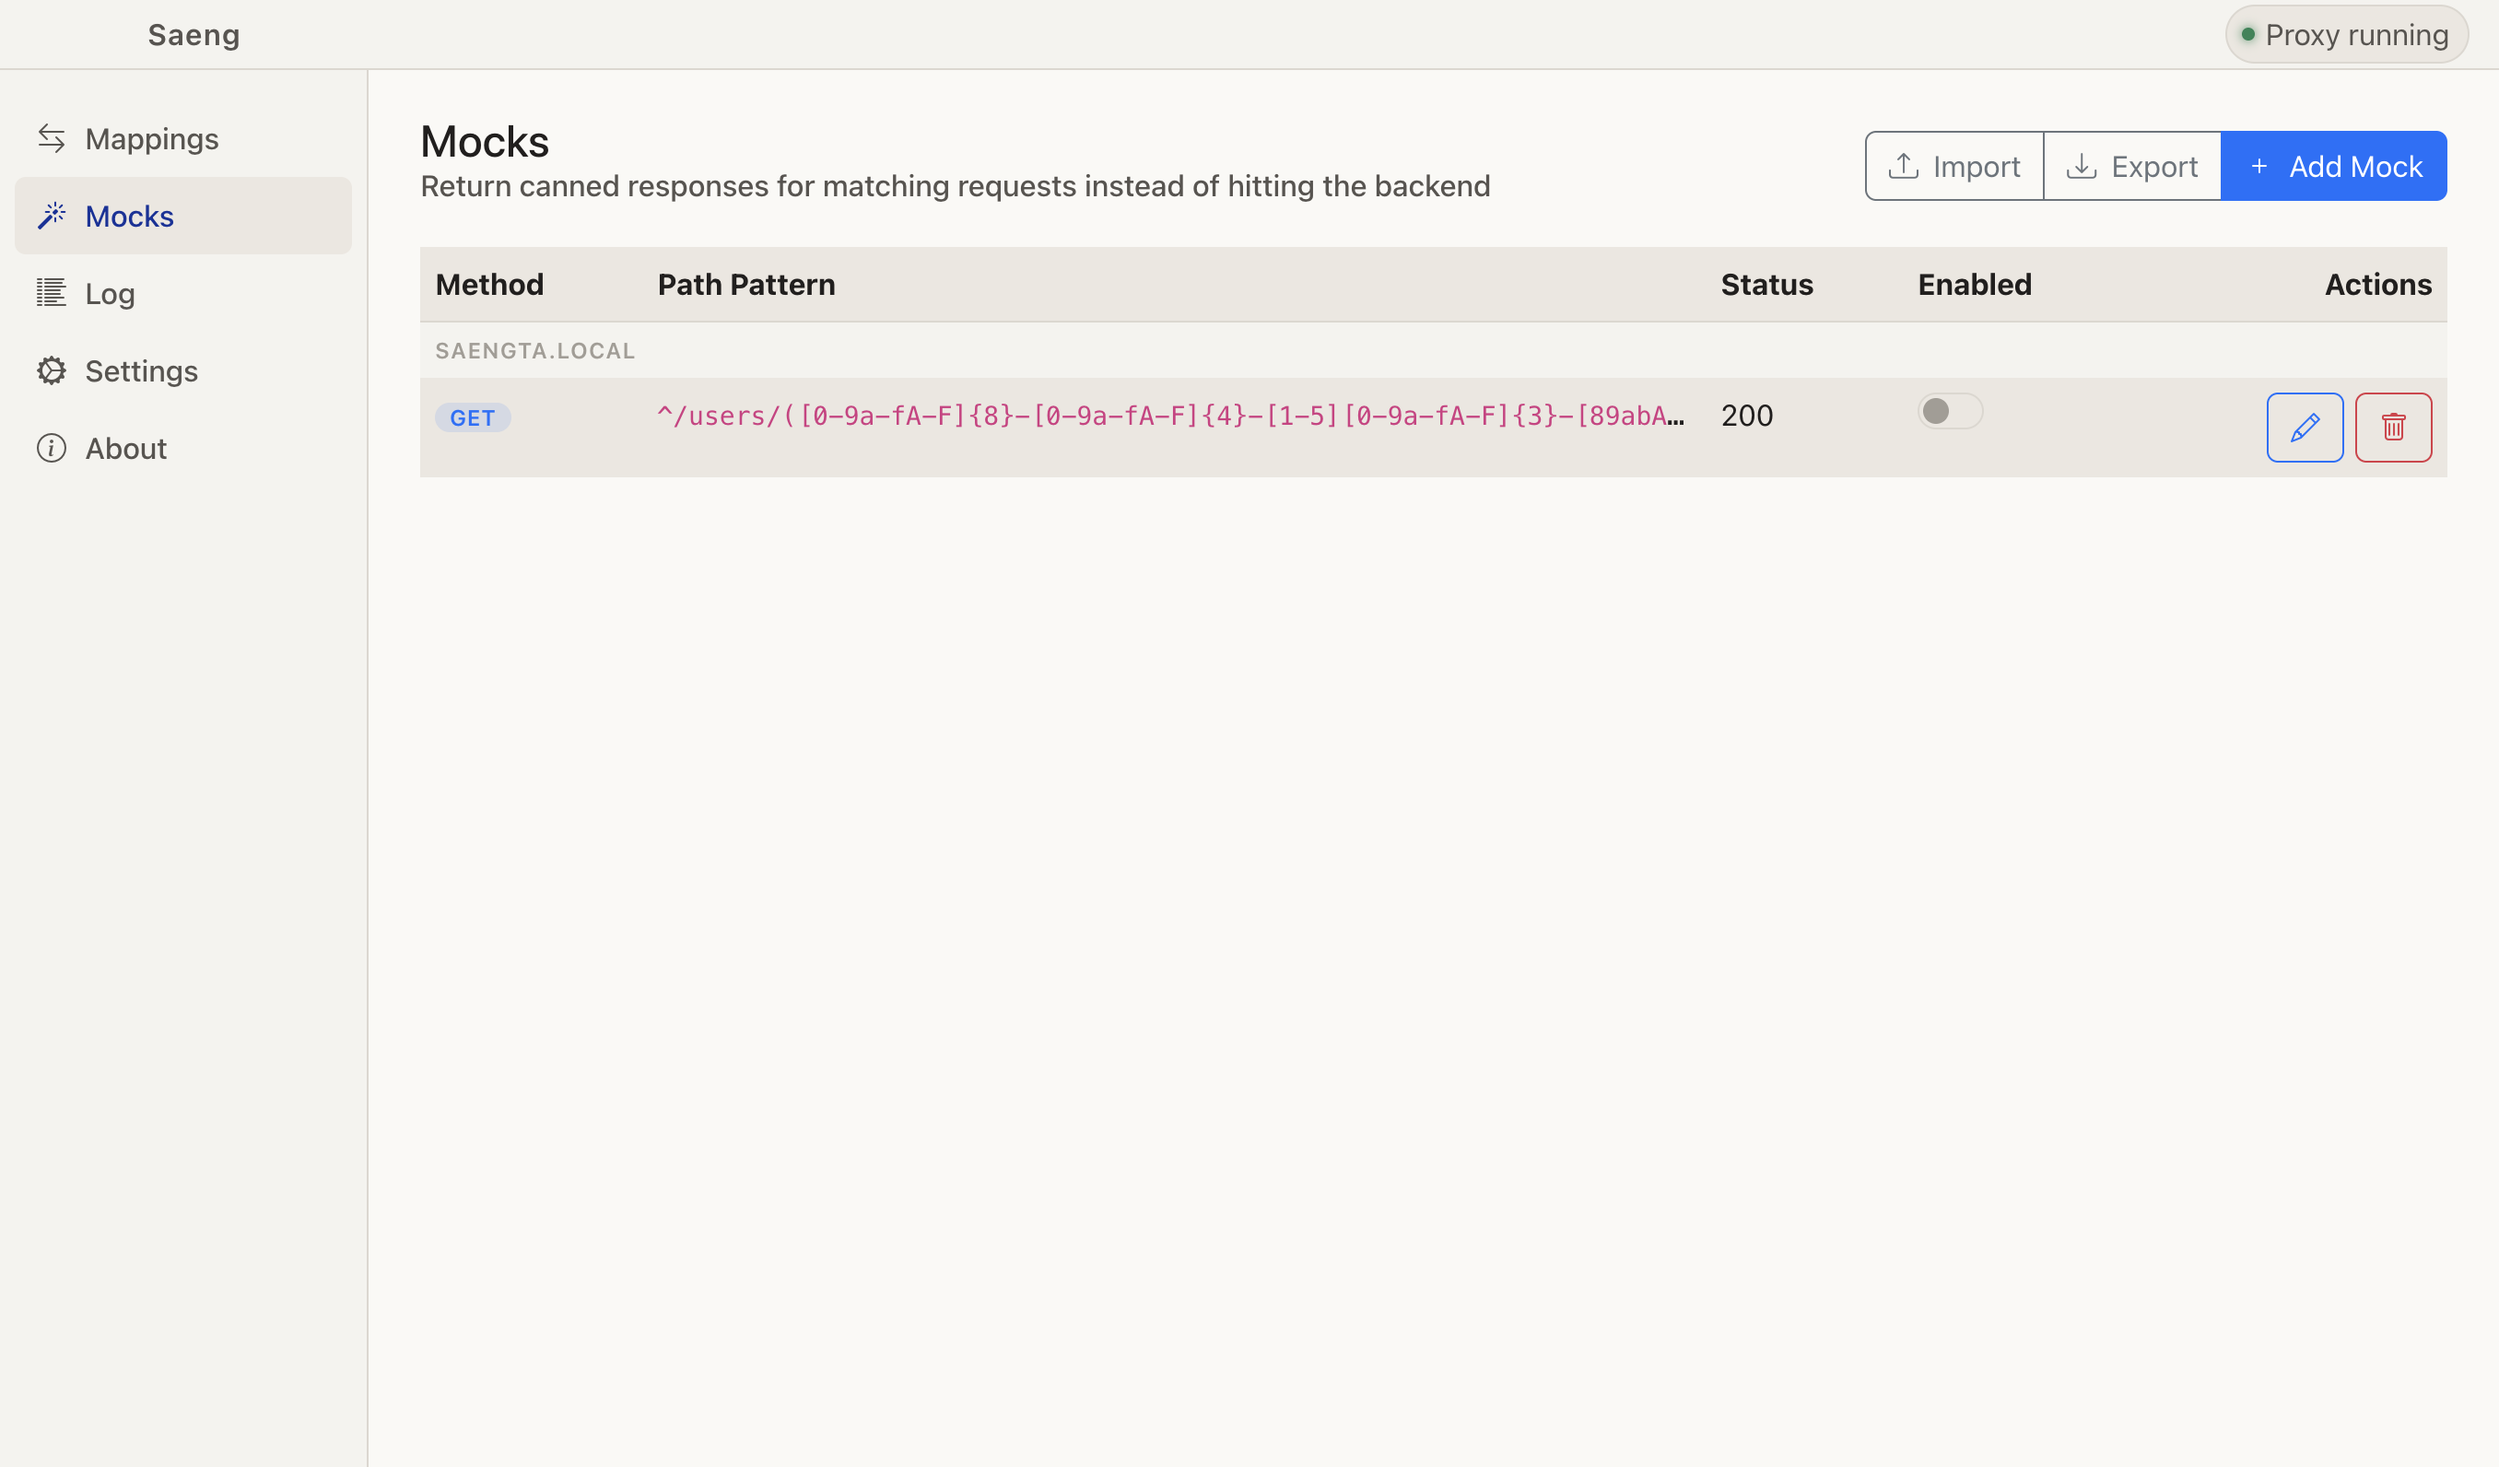
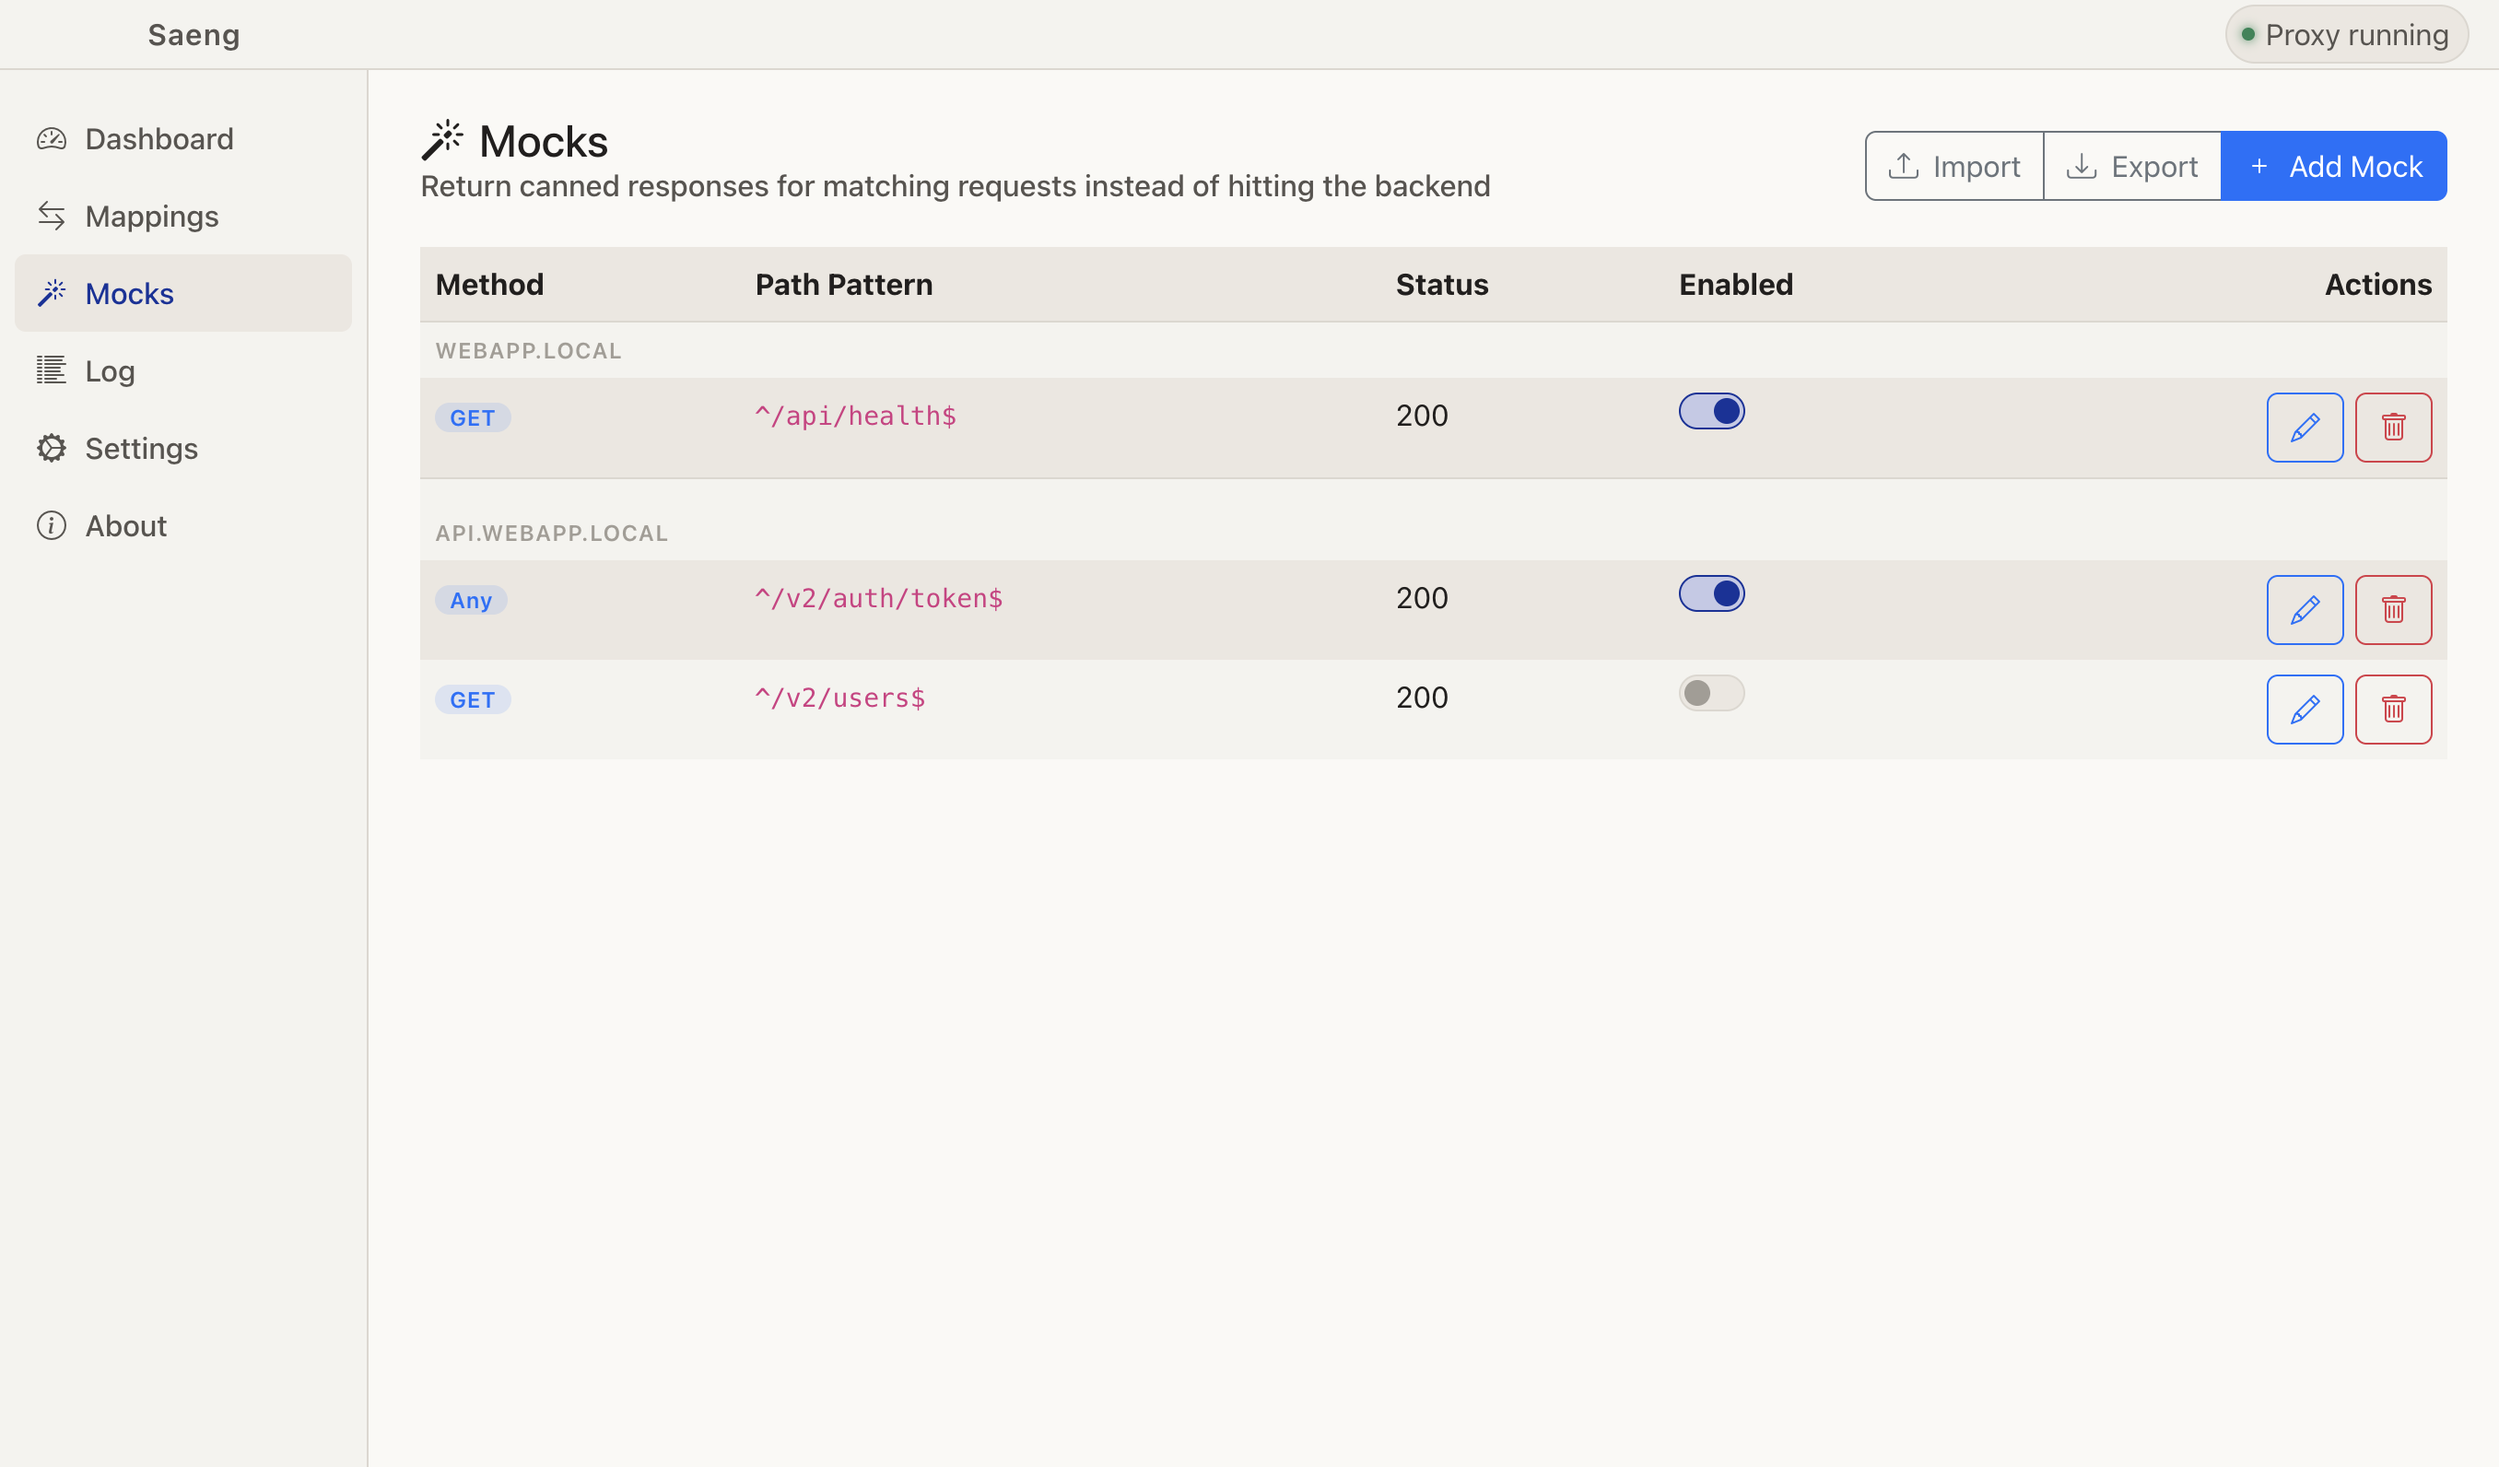
Add Dashboard screenshots

diff --git a/.claude/skills/screenshot-refresh/SKILL.md b/.claude/skills/screenshot-refresh/SKILL.md
@@ -1,6 +1,6 @@
 ---
 name: screenshot-refresh
-description: Launches the real Electron app with remote debugging, drives the renderer via the Chrome DevTools Protocol, and captures a PNG per sidebar view (mappings, mocks, log, settings, about) in both light and dark themes to use in the README. Use when asked to update/refresh screenshots or take new screenshots of the app.
+description: Launches the real Electron app with remote debugging, drives the renderer via the Chrome DevTools Protocol, and captures a PNG per sidebar view (dashboard, mappings, mocks, log, settings, about) in both light and dark themes to use in the README. Use when asked to update/refresh screenshots or take new screenshots of the app.
 ---
 
 Run the bundled script to (re)build the renderer and capture fresh screenshots:
@@ -9,7 +9,7 @@ Run the bundled script to (re)build the renderer and capture fresh screenshots:
 node .claude/skills/screenshot-refresh/capture-screenshots.mjs
 ```
 
-By default this captures `mappings`, `mocks`, `log`, and `settings`, in both `light` and `dark` themes, to `assets/screenshots/` as `screenshot-<theme>-<view>.png` (e.g. `screenshot-light-mappings.png`, `screenshot-dark-mappings.png`), at 1356x796 with a 2x device scale factor (2712x1592 — matches the existing README screenshots exactly).
+By default this captures `dashboard`, `mappings`, `mocks`, `log`, and `settings`, in both `light` and `dark` themes, to `assets/screenshots/` as `screenshot-<theme>-<view>.png` (e.g. `screenshot-light-mappings.png`, `screenshot-dark-mappings.png`), at 1356x796 with a 2x device scale factor (2712x1592 — matches the existing README screenshots exactly).
 
 ## How it works
 
@@ -24,14 +24,14 @@ By default this captures `mappings`, `mocks`, `log`, and `settings`, in both `li
 
 ```bash
 node .claude/skills/screenshot-refresh/capture-screenshots.mjs \
-  --views=mappings,mocks,log,settings,about \
+  --views=dashboard,mappings,mocks,log,settings,about \
   --width=1356 --height=796 --scale=2 \
   --theme=light,dark \
   --out-dir=assets/screenshots \
   --port=9333
 ```
 
-- `--views` — comma-separated subset of `mappings`, `mocks`, `log`, `settings`, `about`. `log` is skipped (with a warning) if `settings.loggingEnabled` is off, since the nav item won't exist.
+- `--views` — comma-separated subset of `dashboard`, `mappings`, `mocks`, `log`, `settings`, `about`. `dashboard` injects fake data (mappings, mocks, health statuses, and ~100 log entries spread over 30 minutes) via React fiber manipulation so the charts and stats are populated regardless of real app state. `log` is skipped (with a warning) if `settings.loggingEnabled` is off, since the nav item won't exist.
 - `--theme` — comma-separated subset of `light`, `dark` (default `light,dark`); sets `data-bs-theme` on `<html>` before capturing each. Pass `--theme=` (empty) to do a single pass without overriding the theme (uses whatever the app's current `colorMode` resolves to) and writes legacy `screenshot-<view>.png` names.
 - `--out-dir` — defaults to `assets/screenshots`, matching where the existing `screenshot-*.png` files already live.
 
